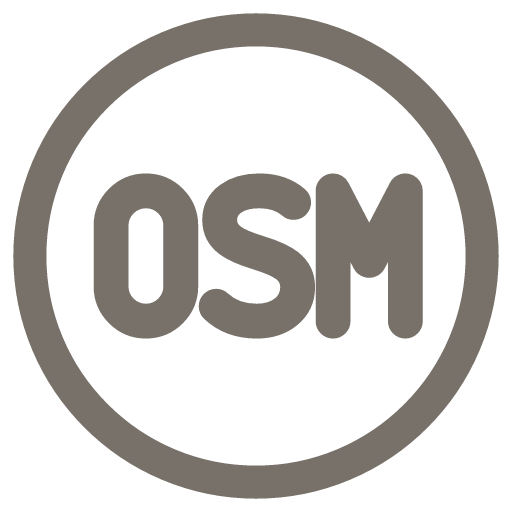
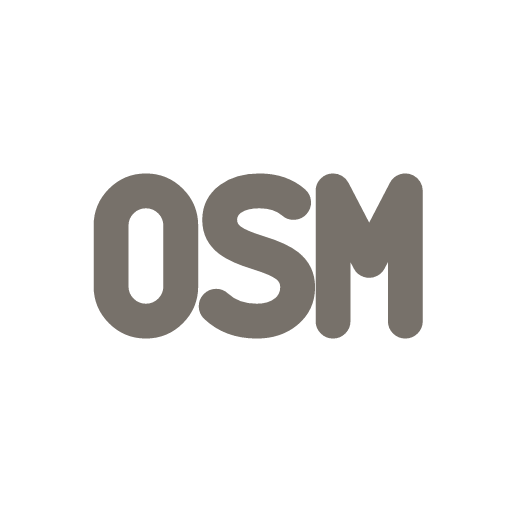
Show the OSM context architecture and use the plain wordmark

Changed region(s): [[0.0, 0.0, 1.0, 1.0]]

diff --git a/assets/diagrams/osm-architecture.html b/assets/diagrams/osm-architecture.html
@@ -1,0 +1,14 @@
+<!doctype html>
+<html lang="en"><meta charset="utf-8"><meta name="viewport" content="width=device-width,initial-scale=1"><title>OSM architecture</title>
+<style>
+*{box-sizing:border-box}body{margin:0;background:#f7f4ed;color:#3a3029;font:15px/1.5 ui-sans-serif,system-ui,-apple-system,BlinkMacSystemFont,"Segoe UI",sans-serif}main{max-width:1000px;margin:auto;padding:28px}button{font:inherit;border:0;cursor:pointer}nav{display:flex;gap:4px;background:#eae4d9;border:1px solid #d9cfc0;border-radius:12px;padding:4px;width:fit-content;margin-bottom:24px}nav button{padding:9px 18px;border-radius:8px;background:transparent;color:#756857}nav button[aria-selected=true]{background:#fffdf8;color:#3a3029;box-shadow:0 1px 5px #3a302912}h1{font-size:29px;line-height:1.2;letter-spacing:-1px;margin:0 0 8px;font-weight:650}p{margin:0}.intro{color:#756857;max-width:650px;margin-bottom:25px}.work{border:1px solid #b4a189;border-radius:16px;background:#fffdf8;padding:22px}.label{font-size:12px;font-weight:700;letter-spacing:.08em;text-transform:uppercase;color:#8c725b;margin-bottom:12px}.route{display:grid;grid-template-columns:1fr 28px 1.1fr 28px 1fr;align-items:center;gap:8px}.node h2{font-size:19px;letter-spacing:-.4px;margin:0 0 6px}.node p{font-size:13px;color:#756857}.node{padding:14px;border-radius:10px;background:#eee6d9}.node.core{background:#765b46;color:#fffaf0}.node.core p{color:#f0ddc8}.arrow{text-align:center;color:#927b66;font-size:24px}.linkrow{display:grid;grid-template-columns:1fr 1fr;gap:28px;padding:14px 30px;color:#7c624c;font-size:12px;text-align:center}.linkrow span:first-child:before{content:"↑";display:block;font-size:26px;line-height:1}.linkrow span:last-child:after{content:"↓";display:block;font-size:26px;line-height:1}.home{background:#e7ecdf;border:1px solid #b7c0a9;border-radius:16px;padding:22px}.home h2{margin:0;font-size:23px;letter-spacing:-.6px}.definition{font-size:13px;color:#667258;margin:5px 0 18px}.stores{display:grid;grid-template-columns:repeat(3,1fr);gap:10px}.store{padding:14px;background:#f9fbf4;border:1px solid #c4ceb7;border-radius:10px}.store strong{font-size:16px;display:block;margin-bottom:4px}.store p{color:#667258;font-size:12px}.lower{display:grid;grid-template-columns:1.2fr 1fr;gap:14px;margin-top:16px}.sources,.dream{padding:18px;border:1px solid #d5c8b6;border-radius:14px;background:#f0e9dd}.dream{border-style:dashed;background:#fffdf8}.lower h2{font-size:17px;margin:0 0 7px}.lower p{color:#756857;font-size:13px}.dream .flow{margin-top:10px;color:#765b46;font-size:12px}.foot{margin-top:18px;color:#756857;font-size:12px}.pair{display:grid;grid-template-columns:1fr 38px 1fr;gap:14px;margin-top:20px}.colhead{font-weight:650;padding:14px 18px;background:#765b46;border-radius:12px;color:#fffaf0}.colhead:last-child{background:#69745d}.align{display:flex;align-items:center;justify-content:center;font-size:24px;color:#a28c74}.cell{padding:14px 18px;background:#fffdf8;border:1px solid #d9cfc0;border-radius:12px}.cell strong{display:block;font-size:16px}.cell small{font-size:12px;color:#756857;display:block;margin-top:3px}.pair .right{background:#f4f7ef;border-color:#c3ccba}.principle{margin-top:22px;border-top:1px solid #dacfbf;padding-top:16px;font-size:13px;color:#756857}.principle strong{color:#4d4033}
+.setup{display:flex;align-items:center;gap:16px;padding:16px 20px;margin-bottom:16px;background:#eee6d9;border-radius:12px;border:1px solid #d5c8b6}.setup strong{font-size:19px}.setup span{flex:1;color:#756857;font-size:13px}.setup b{font-size:24px;color:#927b66}.helpers{display:grid;grid-template-columns:repeat(3,minmax(0,1fr));gap:12px;margin-top:16px;padding-top:14px;border-top:1px solid #d9cfc0}.helpers strong{display:block;font-size:13px}.helpers span{display:block;font-size:12px;color:#756857;margin-top:3px}.optional{font-size:12px;color:#667258;margin-top:14px;padding-top:12px;border-top:1px solid #c4ceb7}.optional strong{color:#4c5841}.intro{max-width:760px}[hidden]{display:none!important}button:focus-visible{outline:2px solid #765b46;outline-offset:2px}
+@media(max-width:590px){.helpers{grid-template-columns:1fr}.setup{align-items:flex-start;flex-wrap:wrap}.setup span{flex-basis:75%}nav{max-width:100%}nav button{min-width:0}.cell,.colhead{min-width:0;overflow-wrap:anywhere}main{padding:16px}h1{font-size:25px}.work,.home{padding:16px}.route{grid-template-columns:1fr}.arrow{font-size:21px;line-height:1;transform:rotate(90deg)}.node{padding:12px}.stores{grid-template-columns:1fr}.store{padding:12px}.lower{grid-template-columns:1fr}.pair{grid-template-columns:minmax(0,1fr) 18px minmax(0,1fr);gap:8px}.colhead,.cell{padding:12px}.cell strong{font-size:14px}.cell small{font-size:11px}nav button{font-size:13px;padding:8px 12px}}
+</style><main>
+<section id="flow"><h1>OSM in your agent’s workspace</h1><p class="intro">OSM is the context module in your agent system. Your agent uses your business knowledge, working methods and connected sources to do useful work.</p>
+<div class="setup"><strong>Setup</strong><span>Connect Notion, create or select your Data & Context home and add the short instructions to your agent.</span><b aria-hidden="true">↓</b></div><div class="work"><div class="label">Your agent app · tools, models and permissions</div><div class="route"><div class="node"><h2>Prime</h2><p>Find the context this task needs.</p></div><span class="arrow" aria-hidden="true">→</span><div class="node core"><h2>Your work</h2><p>Use relevant context, tools and sources.<br>Complete the task in your agent’s workspace.</p></div><span class="arrow" aria-hidden="true">→</span><div class="node"><h2>Log</h2><p>Save lasting decisions and corrections.</p></div></div><div class="helpers"><div><strong>Interview</strong><span>Explore the goal when needed.</span></div><div><strong>Human Writing</strong><span>Write for the reader and the author’s voice.</span></div><div><strong>Council</strong><span>Ask another agent to review or do bounded work.</span></div></div></div>
+<div class="linkrow"><span>Read the definition and relevant records</span><span>Update the right record and read it back</span></div>
+<div class="home"><h2>Notion · Data & Context</h2><p class="definition">The root page starts with your business’s Data & Context definition. It names the sources, destinations, access and working agreements. The databases follow below.</p><div class="stores"><div class="store"><strong>Knowledge</strong><p>Your business, offers, customers, voice and current understanding.</p></div><div class="store"><strong>Memory</strong><p>Lasting decisions, corrections and the reasons behind them.</p></div><div class="store"><strong>Skills</strong><p>Your own reusable ways of working.</p></div></div><p class="optional"><strong>Content · optional</strong> A database or links for your content work, when useful. Your definition can also point to other databases and systems.</p></div>
+<div class="lower"><div class="sources"><h2>Data & connected sources</h2><p>Files, messages, work history, projects, CRM, accounting and other tools keep their originals. Prime follows relevant routes. Dreaming checks the sources selected for upkeep.</p></div><div class="dream"><h2>Dreaming</h2><p>Between sessions, review completed, unfinished and archived work. Recover missed learning, consolidate Memory, maintain the definition and repair verified mistakes without duplicating records.</p><p class="flow">Work + selected sources → review → maintained context</p></div></div><p class="foot">Setup establishes the home and connections. A daily Dreaming run uses a schedule selected in the host. Notion sharing and the selected connection determine access.</p></section>
+</main>
+</html>
